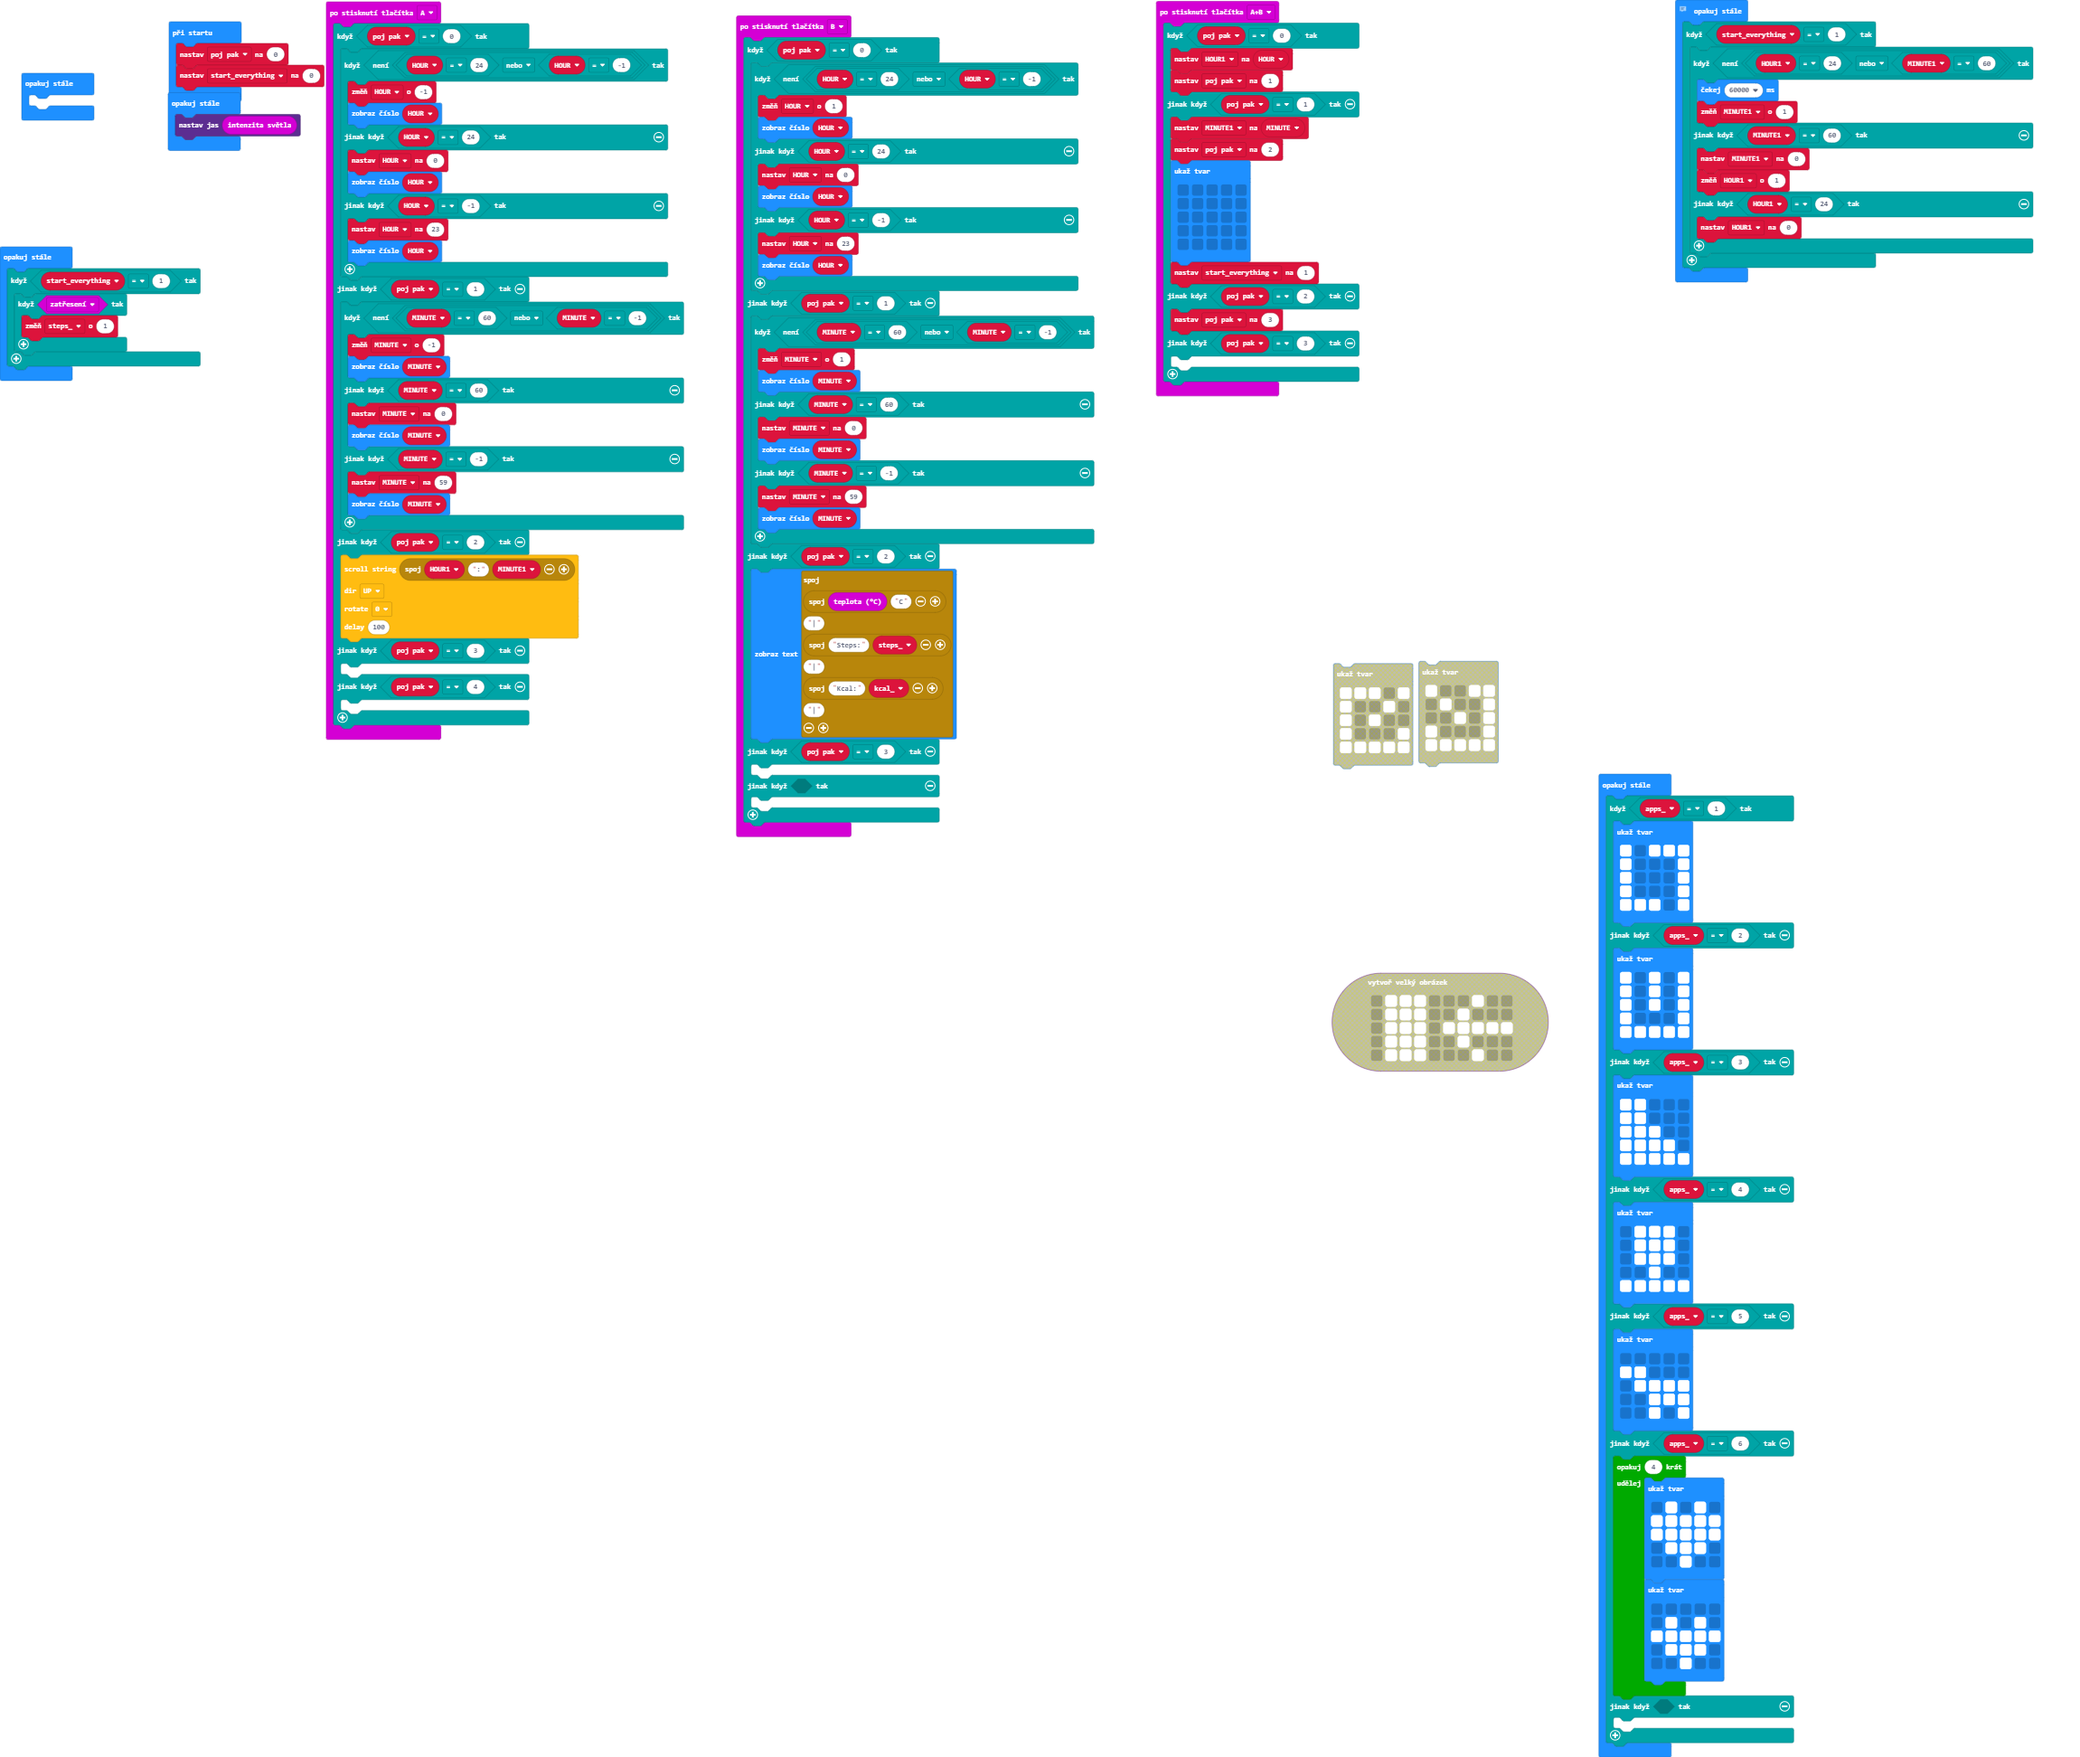
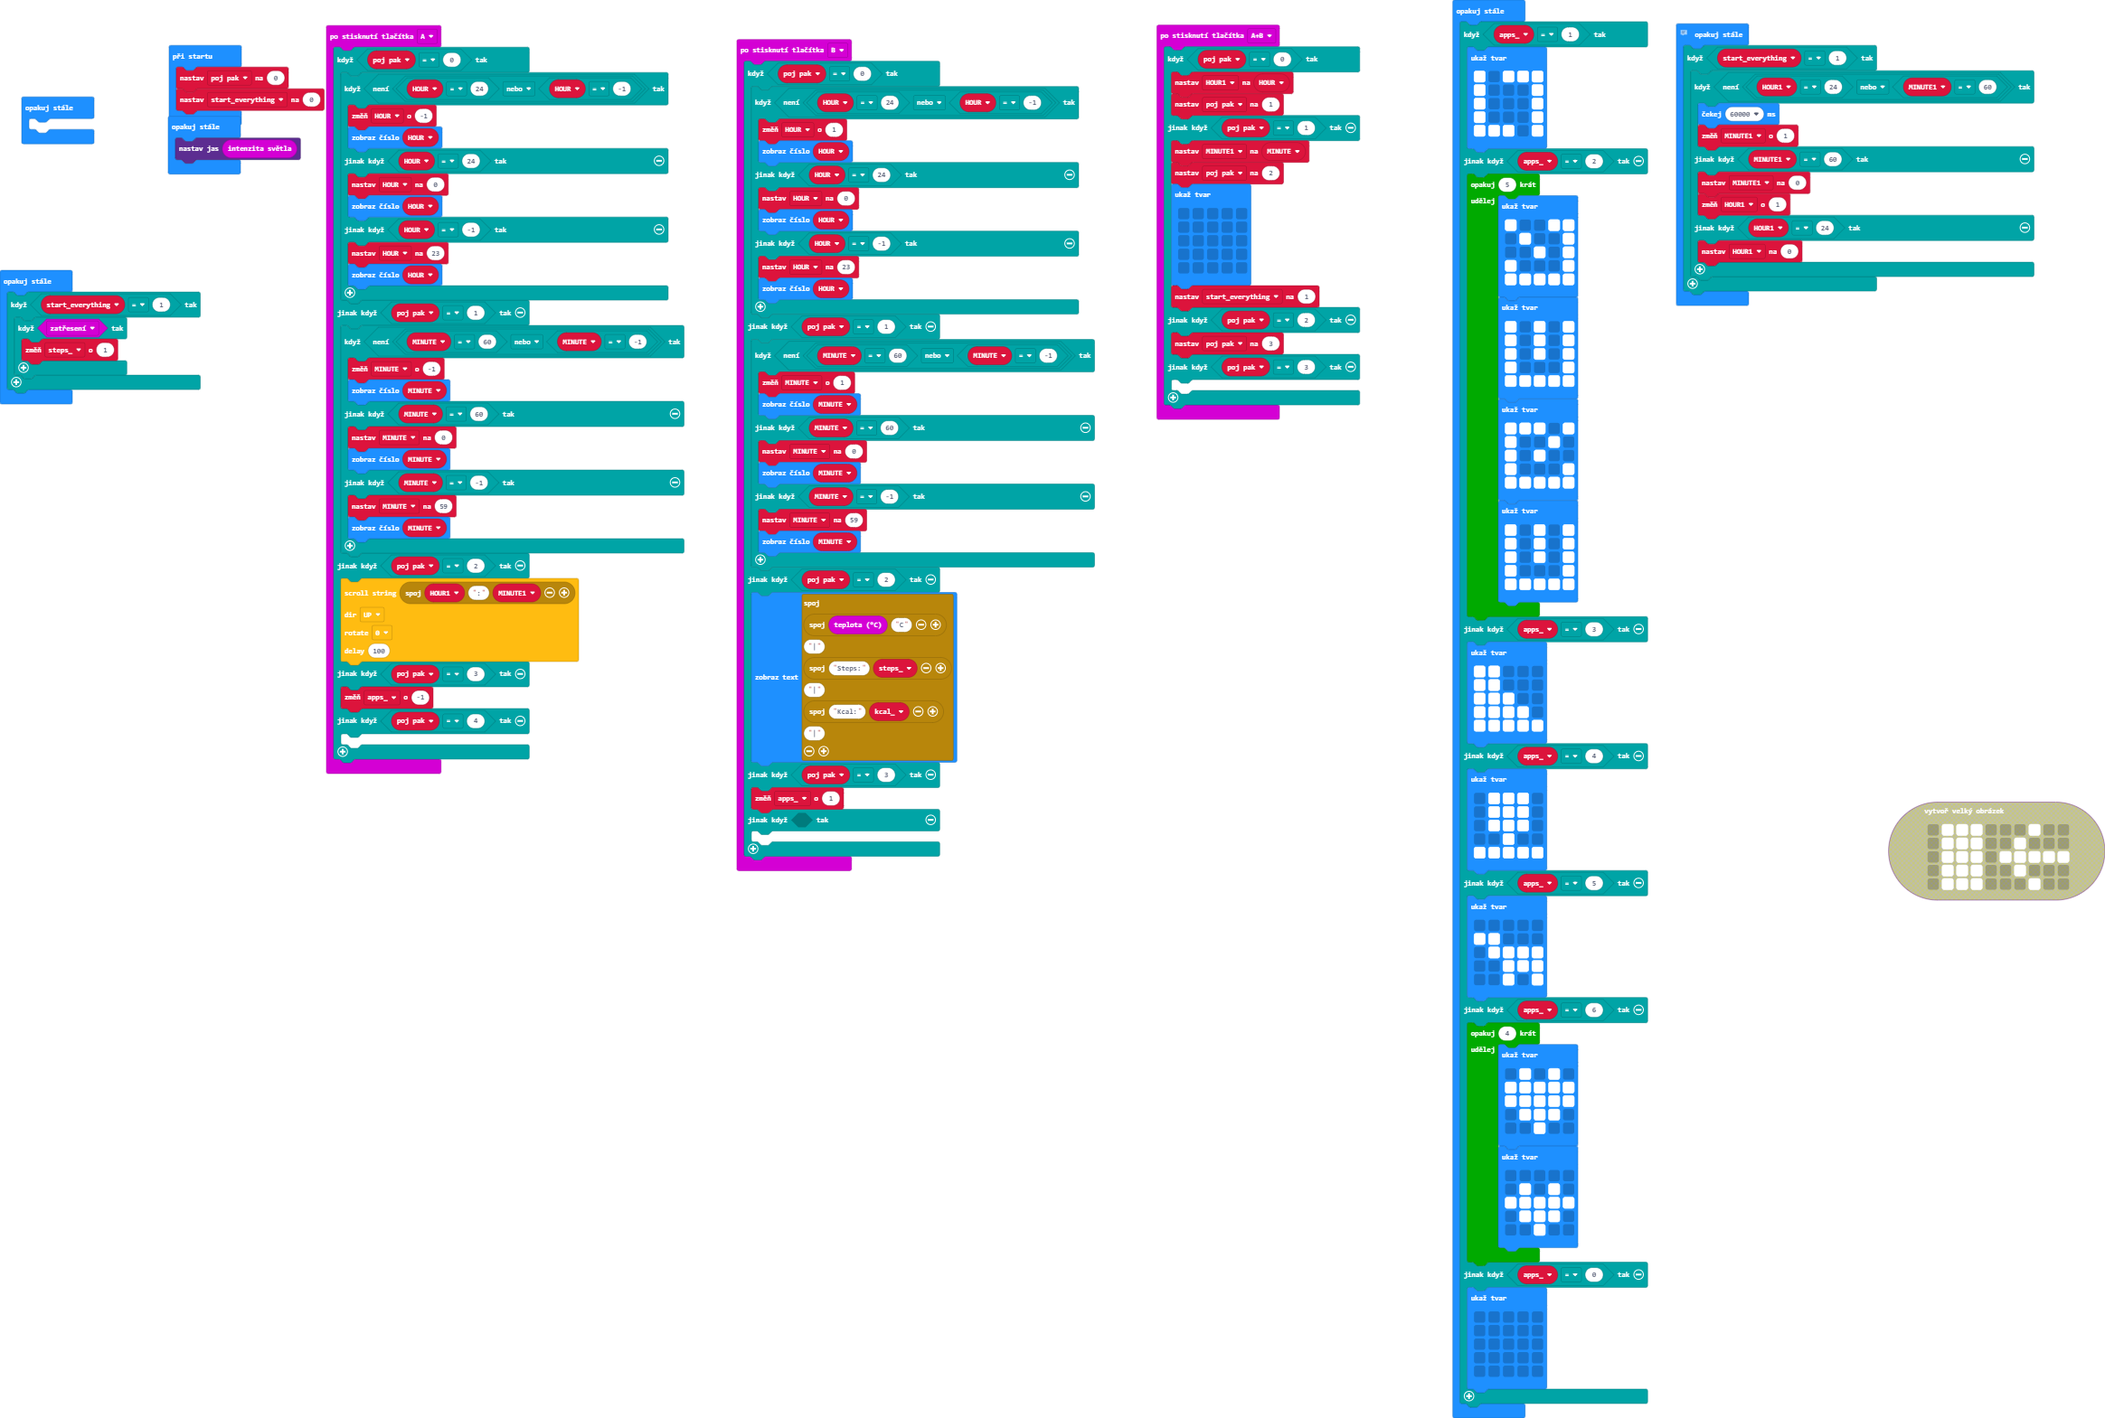
Improving everything...

Changed region(s): [[0.0, 0.0, 0.9874, 1.0], [0.8948, 0.5621, 1.0, 0.6558]]

diff --git a/main.ts b/main.ts
@@ -29,7 +29,7 @@ input.onButtonPressed(Button.A, function () {
         100
         )
     } else if (poj_pak == 3) {
-    	
+        apps_ += -1
     } else if (poj_pak == 4) {
     	
     }
@@ -82,12 +82,13 @@ input.onButtonPressed(Button.B, function () {
         let kcal_ = 0
         basic.showString("" + input.temperature() + "C" + "|" + ("Steps:" + steps_) + "|" + ("Kcal:" + kcal_) + "|")
     } else if (poj_pak == 3) {
-    	
+        apps_ += 1
     } else if (false) {
     	
     }
 })
 let steps_ = 0
+let apps_ = 0
 let MINUTE1 = 0
 let HOUR1 = 0
 let MINUTE = 0
@@ -97,34 +98,6 @@ let poj_pak = 0
 poj_pak = 0
 start_everything = 0
 basic.forever(function () {
-	
-})
-// Hodiny
-basic.forever(function () {
-    if (start_everything == 1) {
-        if (!(HOUR1 == 24 || MINUTE1 == 60)) {
-            basic.pause(60000)
-            MINUTE1 += 1
-        } else if (MINUTE1 == 60) {
-            MINUTE1 = 0
-            HOUR1 += 1
-        } else if (HOUR1 == 24) {
-            HOUR1 = 0
-        }
-    }
-})
-basic.forever(function () {
-    led.setBrightness(input.lightLevel())
-})
-basic.forever(function () {
-    if (start_everything == 1) {
-        if (input.isGesture(Gesture.Shake)) {
-            steps_ += 1
-        }
-    }
-})
-basic.forever(function () {
-    let apps_ = 0
     if (apps_ == 1) {
         basic.showLeds(`
             # . # # #
@@ -134,13 +107,36 @@ basic.forever(function () {
             # # # . #
             `)
     } else if (apps_ == 2) {
-        basic.showLeds(`
-            # . # . #
-            # . # . #
-            # . # . #
-            # . . . #
-            # # # # #
-            `)
+        for (let index = 0; index < 5; index++) {
+            basic.showLeds(`
+                # . . # #
+                . # . . #
+                . . # . #
+                # . . . #
+                # # # # #
+                `)
+            basic.showLeds(`
+                # . # . #
+                # . # . #
+                # . # . #
+                # . . . #
+                # # # # #
+                `)
+            basic.showLeds(`
+                # # # . #
+                # . . # .
+                # . # . .
+                # . . . #
+                # # # # #
+                `)
+            basic.showLeds(`
+                # . # . #
+                # . # . #
+                # . # . #
+                # . . . #
+                # # # # #
+                `)
+        }
     } else if (apps_ == 3) {
         basic.showLeds(`
             # # . . .
@@ -182,7 +178,40 @@ basic.forever(function () {
                 . . # . .
                 `)
         }
-    } else if (false) {
-    	
+    } else if (apps_ == 0) {
+        basic.showLeds(`
+            . . . . .
+            . . . . .
+            . . . . .
+            . . . . .
+            . . . . .
+            `)
+    }
+})
+basic.forever(function () {
+	
+})
+// Hodiny
+basic.forever(function () {
+    if (start_everything == 1) {
+        if (!(HOUR1 == 24 || MINUTE1 == 60)) {
+            basic.pause(60000)
+            MINUTE1 += 1
+        } else if (MINUTE1 == 60) {
+            MINUTE1 = 0
+            HOUR1 += 1
+        } else if (HOUR1 == 24) {
+            HOUR1 = 0
+        }
+    }
+})
+basic.forever(function () {
+    led.setBrightness(input.lightLevel())
+})
+basic.forever(function () {
+    if (start_everything == 1) {
+        if (input.isGesture(Gesture.Shake)) {
+            steps_ += 1
+        }
     }
 })
